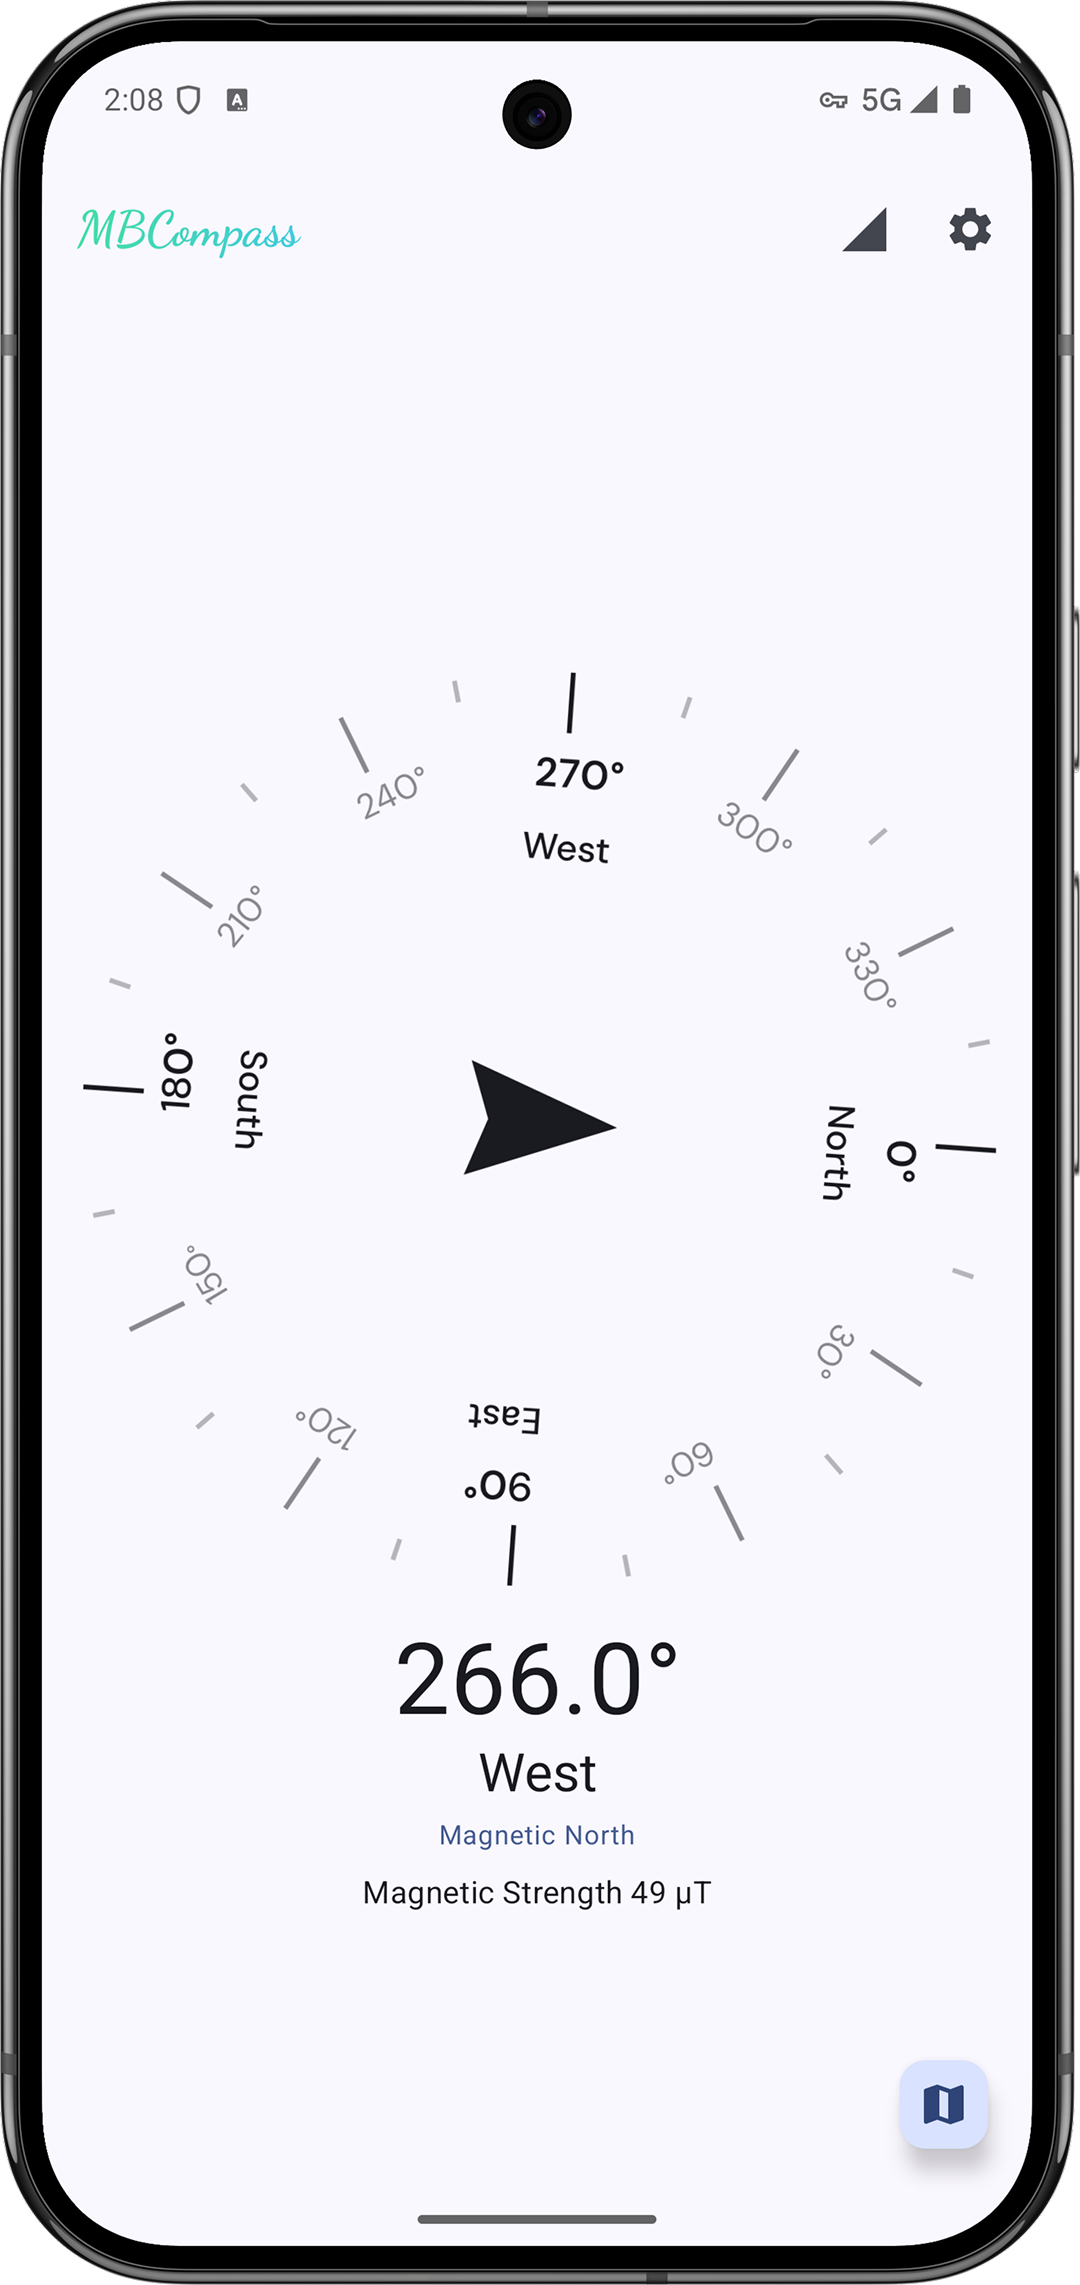
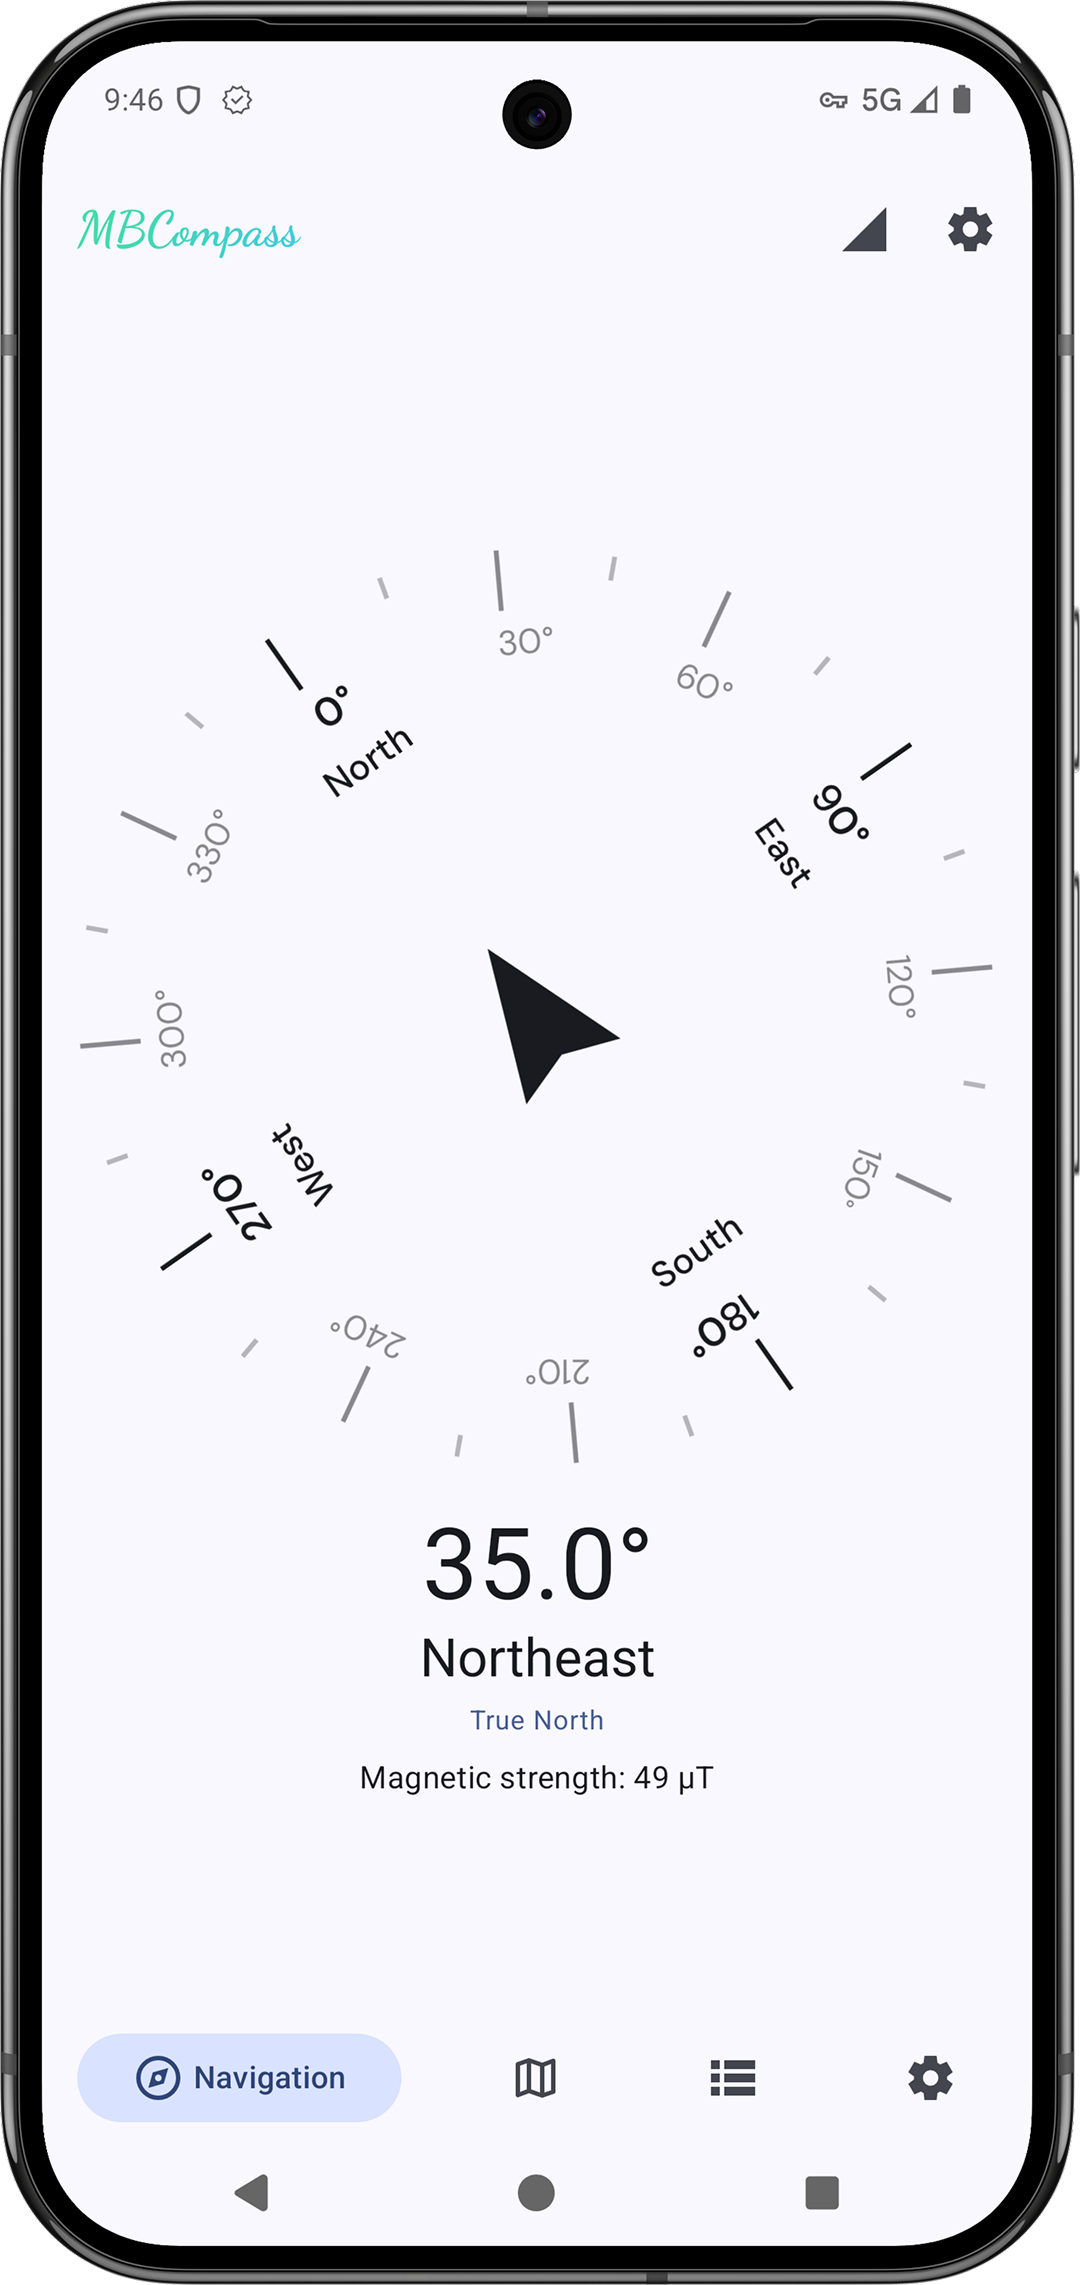
chore(release): update fastlane config and README for new release (#139)

diff --git a/README.md b/README.md
@@ -12,7 +12,7 @@
     <img src="https://img.shields.io/github/v/release/MubarakNative/MBCompass?include_prereleases&color=4B95DE&style=for-the-badge" alt="Latest Release"/>
   </a>
   <a href="https://apilevels.com/">
-    <img src="https://img.shields.io/badge/API-21%2B-1450A8?style=for-the-badge" alt="Min API"/>
+    <img src="https://img.shields.io/badge/API-23%2B-1450A8?style=for-the-badge" alt="Min API"/>
   </a>
 </p>
 
@@ -35,11 +35,11 @@
 
 ## About
 
-**MBCompass** is a modern, free, and open-source compass and navigation app built from the ground up for Android, without **ads**, **IAP**, or **tracking**. Built with Jetpack Compose, it supports compass and navigation features while being **lightweight** and simple.
+**MBCompass** is a modern, free, and open-source compass and navigation app built from the ground up for Android, without **ads**, **IAP**, or **tracking**. Built with Jetpack Compose, it supports compass and navigation features while being **lightweight**, simple and battery-efficient.
 
-> Not just a compass. Not a map app.
+>Not just a compass. Not a full navigation app.
 >
-> MBCompass bridges the gap between a **compass** and a **full navigation app** - shows direction and live location without using hundreds of MBs of storage or privacy trade-offs.
+>MBCompass sits in between, a focused **navigation utility** for hiking, trekking and everyday use, combining direction, live location, and track recording without unnecessary complexity.
 
 ---
 
@@ -54,17 +54,37 @@
 
 ## Features
 
-- Displays clear cardinal directions with both **magnetic north** and **true north**.
-- Live **GPS location tracking** on _OpenStreetMap_.
-- Shows magnetic field strength in **µT**.
-- Sensor fusion for improved accuracy (_accelerometer_, _magnetometer_, _gyroscope_).
-- Light and dark theme support controlled via Settings.
-- Keeps screen on during navigation.
-- Landscape orientation support.
-- Built with Jetpack Compose and Material Design.
-- Runs on Android 5.0+
-- No ads, no in-app purchases, no tracking.
-- [Learn more on the website](https://compassmb.github.io/MBCompass-site/#features)
+### Core Compass & Navigation
+- Displays clear cardinal directions with both **magnetic north** and **true north**
+- Live **GPS location tracking** on _OpenStreetMap_
+- Sensor fusion for improved accuracy (_accelerometer_, _magnetometer_, _gyroscope_)
+- Shows magnetic field strength in **µT**
+
+### Tracking & GPX
+- **Real-time track recording** directly on the map (start, pause, resume)
+- **Track management screen** to view and organize all saved tracks
+- **Track statistics**:
+    - Distance, duration, average speed
+    - Elevation gain/loss
+    - Min/max altitude
+- Smooth polyline rendering for recorded tracks
+- **Waypoint recording** during tracking
+- **GPX export support** using system file picker
+- **Share tracks** via Android share sheet
+- **Star and sort tracks** (favorites, organization)
+
+### App Experience
+- Light and dark theme (AMOLED Dark also supported) support via Settings
+- Keeps screen on during navigation
+- Custom bottom bar for ease navigation
+- Landscape orientation support
+- Built with Jetpack Compose and Material Design
+- No ads, no in-app purchases, no tracking
+- No Google Play Services dependency
+- Uses Android’s native location APIs
+- Runs on Android 6.0+
+
+[Learn more on the website](https://compassmb.github.io/MBCompass-site/#features)
 
 ---
 
@@ -79,12 +99,9 @@
     <img width="600" src="/MBCompass_Q2.png" alt="MBCompass Q2 design preview"/>
   </p>
 
-- GPX waypoint and track recording
-- Redesigned top-level navigation layout
-- Track export and sharing
-- and many more,..
-
-_(This is a reference design concept and does not represent the final outcome. The final implementation may vary to ensure optimal performance and alignment with Android best practices.)_
+- Offline maps (evaluating lightweight approaches)
+- Topographic (topo) map support
+- Navigation UX improvements and refinements
 
 </details>
 
@@ -100,9 +117,23 @@ MBCompass has gained recognition from the global developer community:
 
 [See full highlights](./Featured.md)
 
-##  Permissions
+## Permissions
 
-- Location permission is only used to detect the current location on the map.
+MBCompass only requests the minimum permissions required for navigation and tracking features:
+
+- **Location**
+    - Used to detect and display your current location on the map
+    - Required for real-time track recording and navigation features
+
+- **Notification (Android 13+)**
+    - Used to show foreground service notifications during active tracking
+    - Enables track progress visibility and quick controls (start/pause/stop)
+
+- **Activity Recognition (Android 10+)**
+    - Used to improve tracking accuracy by detecting user movement state (e.g., walking)
+
+MBCompass does **not** collect, store, or share any personal data.
+All location and tracking data stays on your device unless you explicitly export it (e.g., GPX files).
 
 ## Translations
 
